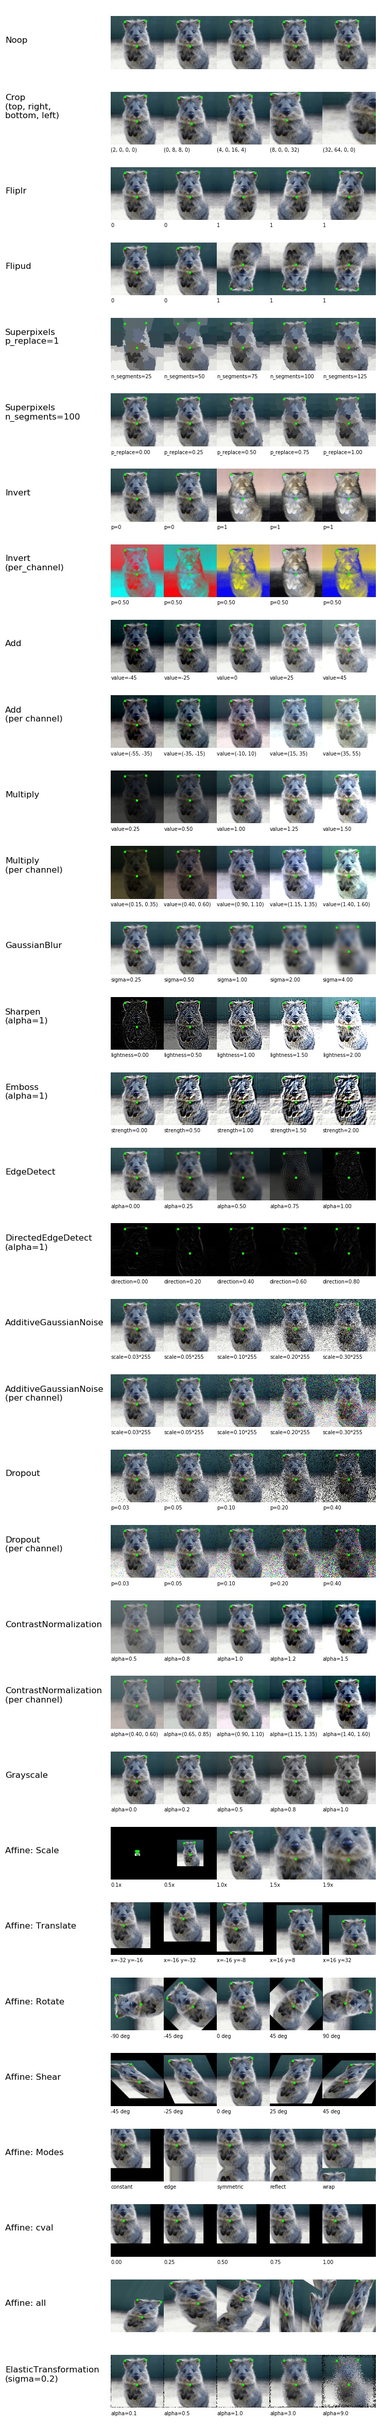
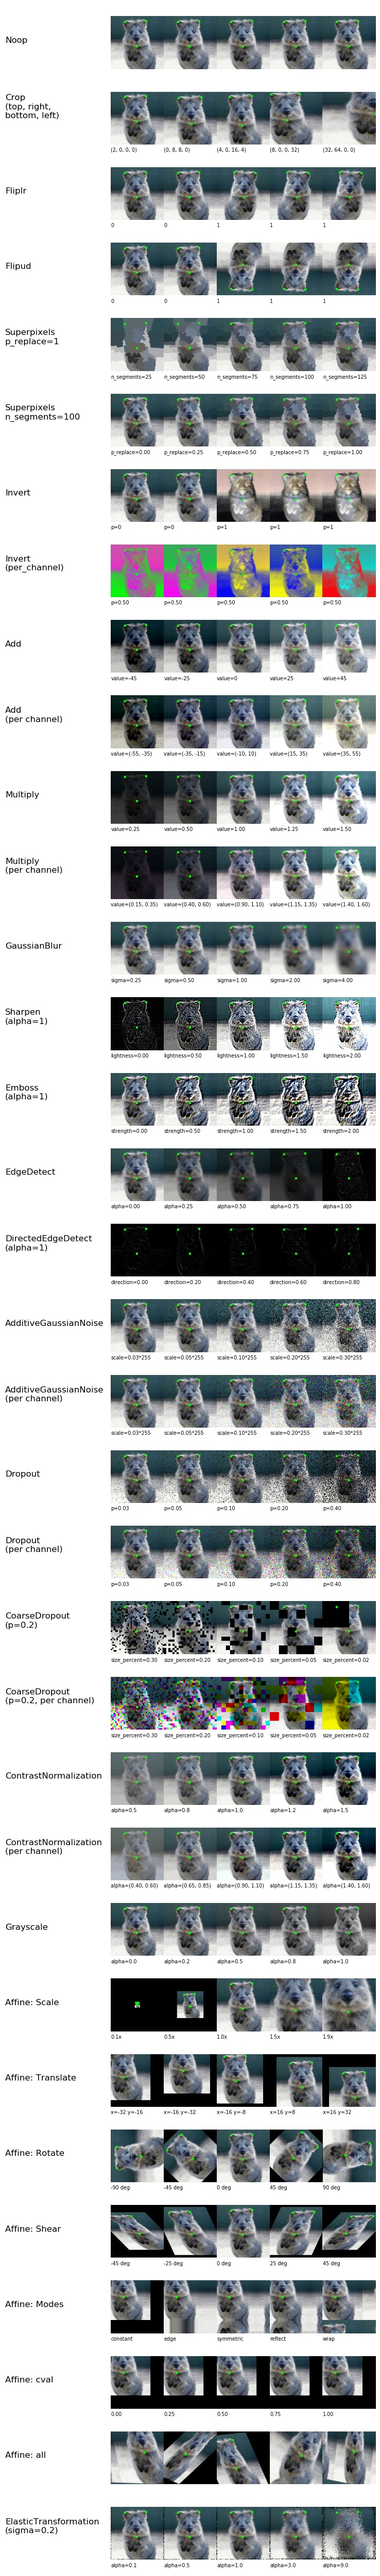
Add CoarseDropout

diff --git a/imgaug/augmenters.py b/imgaug/augmenters.py
@@ -1,6 +1,6 @@
 from __future__ import print_function, division, absolute_import
 from . import imgaug as ia
-from .parameters import StochasticParameter, Deterministic, Binomial, Choice, DiscreteUniform, Normal, Uniform
+from .parameters import StochasticParameter, Deterministic, Binomial, Choice, DiscreteUniform, Normal, Uniform, FromLowerResolution
 from abc import ABCMeta, abstractmethod
 import random
 import numpy as np
@@ -3477,6 +3477,130 @@ def Dropout(p=0, per_channel=False, name=None, deterministic=False,
         raise Exception("Expected p to be float or int or StochasticParameter, got %s." % (type(p),))
     return MultiplyElementwise(p2, per_channel=per_channel, name=name, deterministic=deterministic, random_state=random_state)
 
+def CoarseDropout(p=0, size_px=None, size_percent=None,
+                  per_channel=False, min_size=4, name=None, deterministic=False,
+                  random_state=None):
+    """Create an augmenter that sets areas of the image to zero.
+
+    In contrast to Dropout, these areas can have larger sizes.
+    (E.g. you might end up with three large black rectangles in an image.)
+    Note that the current implementation leads to correlated sizes,
+    so when there is one large area that is dropped, there is a high likelihood
+    that all other dropped areas are also large.
+
+    This method is implemented by generating the dropout mask at a
+    lower resolution (than the image has) and then upsampling the mask
+    before dropping the pixels.
+
+    Examples:
+        aug = iaa.Dropout(0.02, size_percent=0.5)
+    drops 2 percent of all pixels on an lower-resolution image that has
+    50 percent of the original image's size, leading to dropped areas that
+    have roughly 2x2 pixels size.
+
+    Examples:
+        aug = iaa.Dropout((0.0, 0.05), size_percent=(0.05, 0.5))
+    generates a dropout mask at 5 to 50 percent of image's size. In that mask,
+    0 to 5 percent of all pixels are dropped (random per image).
+
+    Examples:
+        aug = iaa.Dropout((0.0, 0.05), size_px=(2, 16))
+    same as previous example, but the lower resolution image has 2 to 16 pixels
+    size.
+
+    Examples:
+        aug = iaa.Dropout(0.02, size_percent=0.5, per_channel=True)
+    drops 2 percent of all pixels at 50 percent resolution (2x2 sizes)
+    in a channel-wise fashion, i.e. it is unlikely
+    for any pixel to have all channels set to zero (black pixels).
+
+    Examples:
+        aug = iaa.Dropout(0.02, size_percent=0.5, per_channel=0.5)
+    same as previous example, but the per_channel feature is only active
+    for 50 percent of all images.
+
+    Parameters
+    ----------
+    p : float or tuple of two floats or StochasticParameter, optional(default=0)
+        The probability of any pixel being dropped (i.e. set to zero).
+        If a float, then that value will be used for all pixels. A value of 1.0
+          would mean, that all pixels will be dropped. A value of 0.0 would
+          lead to no pixels being dropped.
+        If a tuple (a, b), then a value p will be sampled from the
+          range a <= p <= b per image and be used as the pixel's dropout
+          probability.
+        If a StochasticParameter, then this parameter will be used to determine
+          per pixel whether it should be dropped (sampled value of 0)
+          or shouldn't (sampled value of 1).
+
+    size_px : int or tuple of two ints or StochasticParameter, optional(default=None)
+        The size of the lower resolution image from which to sample the dropout
+        mask.
+        If an integer, then that size will be used for both height and width.
+          E.g. a value of 3 would lead to a 3x3 mask, which is then upsampled
+          to HxW, where H is the image size and W the image width.
+        If a tuple (a, b), then two values M, N will be sampled from the range
+          [a..b] and the mask will be generated at size MxN, then upsampled
+          to HxW.
+        If a StochasticParameter, then this parameter will be used to determine
+          the sizes. It is expected to be discrete.
+
+    size_percent : float or tuple of two floats or StochasticParameter, optional(default=None)
+        If a float, then that value will be used as the percentage of the
+          height and width (relative to the original size). E.g. for value p,
+          the mask will be sampled from (p*H)x(p*W) and later upsampled to
+          HxW.
+        If a tuple (a, b), then two values m, n will be sampled from the
+          interval (a, b) and used as the percentages, i.e the mask size
+          will be (m*H)x(n*W).
+        If a StochasticParameter, then this parameter will be used to sample
+          the percentage values. It is expected to be continuous.
+
+    per_channel : bool, optional(default=False)
+        Whether to use the same value (is dropped / is not dropped)
+        for all channels of a pixel (False) or to sample a new value for each
+        channel (True).
+        If this value is a float p, then for p percent of all images
+        per_channel will be treated as True, otherwise as False.
+
+    min_size : int, optional(default=4)
+        Minimum size of the low resolution mask, both width and height. If
+        size_percent or size_px leads to a lower value than this, min_size will
+        be used instead. This should never have a value of less than 2,
+        otherwise one may end up with a 1x1 low resolution mask, leading easily
+        to the whole image being dropped.
+
+    name : string, optional(default=None)
+        See Augmenter.__init__()
+
+    deterministic : bool, optional(default=False)
+        See Augmenter.__init__()
+
+    random_state : int or np.random.RandomState or None, optional(default=None)
+        See Augmenter.__init__()
+    """
+    if ia.is_single_number(p):
+        p2 = Binomial(1 - p)
+    elif ia.is_iterable(p):
+        assert len(p) == 2
+        assert p[0] < p[1]
+        assert 0 <= p[0] <= 1.0
+        assert 0 <= p[1] <= 1.0
+        p2 = Binomial(Uniform(1 - p[1], 1 - p[0]))
+    elif isinstance(p, StochasticParameter):
+        p2 = p
+    else:
+        raise Exception("Expected p to be float or int or StochasticParameter, got %s." % (type(p),))
+
+    if size_px is not None:
+        p3 = FromLowerResolution(other_param=p2, size_px=size_px, min_size=min_size)
+    elif size_percent is not None:
+        p3 = FromLowerResolution(other_param=p2, size_percent=size_percent, min_size=min_size)
+    else:
+        raise Exception("Either size_px or size_percent must be set.")
+
+    return MultiplyElementwise(p3, per_channel=per_channel, name=name, deterministic=deterministic, random_state=random_state)
+
 # TODO tests
 class Invert(Augmenter):
     """Augmenter that inverts all values in images.
@@ -3491,8 +3615,6 @@ class Invert(Augmenter):
     def __init__(self, p=0, per_channel=False, min_value=0, max_value=255, name=None,
                  deterministic=False, random_state=None):
         """Create a new Invert instance.
-
-
 
         Parameters
         ----------

diff --git a/generate_example_images.py b/generate_example_images.py
@@ -18,37 +18,40 @@ def main():
 def draw_single_sequential_images():
     image = misc.imresize(ndimage.imread("quokka.jpg")[0:643, 0:643], (128, 128))
 
-    st = lambda aug: iaa.Sometimes(0.3, aug)
-
+    rarely = lambda aug: iaa.Sometimes(0.1, aug)
+    sometimes = lambda aug: iaa.Sometimes(0.25, aug)
+    often = lambda aug: iaa.Sometimes(0.5, aug)
     seq = iaa.Sequential([
-            iaa.Fliplr(0.5),
-            iaa.Flipud(0.5),
-            st(iaa.Superpixels(p_replace=(0, 1.0), n_segments=(20, 200))),
-            st(iaa.Crop(percent=(0, 0.1))),
-            st(iaa.GaussianBlur((0, 3.0))),
-            st(iaa.Sharpen(alpha=(0, 1.0), lightness=(0.75, 1.5))),
-            st(iaa.Emboss(alpha=(0, 1.0), strength=(0, 2.0))),
-            st(iaa.Sometimes(0.5,
+            iaa.Fliplr(0.5), # horizontally flip 50% of all images
+            iaa.Flipud(0.5), # vertically flip 50% of all images
+            rarely(iaa.Superpixels(p_replace=(0, 1.0), n_segments=(20, 200))), # convert images into their superpixel representation
+            often(iaa.Crop(percent=(0, 0.1))), # crop images by 0-10% of their height/width
+            sometimes(iaa.GaussianBlur((0, 3.0))), # blur images with a sigma between 0 and 3.0
+            sometimes(iaa.Sharpen(alpha=(0, 1.0), lightness=(0.75, 1.5))), # sharpen images
+            sometimes(iaa.Emboss(alpha=(0, 1.0), strength=(0, 2.0))), # emboss images
+            # search either for all edges or for directed edges
+            rarely(iaa.Sometimes(0.5,
                 iaa.EdgeDetect(alpha=(0, 0.7)),
                 iaa.DirectedEdgeDetect(alpha=(0, 0.7), direction=(0.0, 1.0)),
             )),
-            st(iaa.AdditiveGaussianNoise(loc=0, scale=(0.0, 0.05*255), per_channel=0.5)),
-            st(iaa.Dropout((0.0, 0.1), per_channel=0.5)),
-            st(iaa.Invert(0.25, per_channel=True)),
-            st(iaa.Add((-10, 10), per_channel=0.5)),
-            st(iaa.Multiply((0.5, 1.5), per_channel=0.5)),
-            st(iaa.ContrastNormalization((0.5, 2.0), per_channel=0.5)),
-            st(iaa.Grayscale(alpha=(0.0, 1.0), name="Grayscale")),
-            st(iaa.Affine(
-                scale={"x": (0.8, 1.2), "y": (0.8, 1.2)},
-                translate_px={"x": (-16, 16), "y": (-16, 16)},
-                rotate=(-45, 45),
-                shear=(-16, 16),
-                order=[0, 1],
-                cval=(0, 255),
-                mode=ia.ALL
+            often(iaa.AdditiveGaussianNoise(loc=0, scale=(0.0, 0.05*255), per_channel=0.5)), # add gaussian noise to images
+            often(iaa.Dropout((0.0, 0.1), per_channel=0.5)), # randomly remove up to 10% of the pixels
+            often(iaa.CoarseDropout((0.0, 0.05), size_percent=(0.02, 0.25), per_channel=True)),
+            rarely(iaa.Invert(0.25, per_channel=True)), # invert color channels
+            often(iaa.Add((-10, 10), per_channel=0.5)), # change brightness of images (by -10 to 10 of original value)
+            often(iaa.Multiply((0.5, 1.5), per_channel=0.5)), # change brightness of images (50-150% of original value)
+            often(iaa.ContrastNormalization((0.5, 2.0), per_channel=0.5)), # improve or worsen the contrast
+            sometimes(iaa.Grayscale(alpha=(0.0, 1.0))),
+            often(iaa.Affine(
+                scale={"x": (0.8, 1.2), "y": (0.8, 1.2)}, # scale images to 80-120% of their size, individually per axis
+                translate_percent={"x": (-0.2, 0.2), "y": (-0.2, 0.2)}, # translate by -20 to +20 percent (per axis)
+                rotate=(-45, 45), # rotate by -45 to +45 degrees
+                shear=(-16, 16), # shear by -16 to +16 degrees
+                order=[0, 1], # use nearest neighbour or bilinear interpolation (fast)
+                cval=(0, 255), # if mode is constant, use a cval between 0 and 255
+                mode=ia.ALL # use any of scikit-image's warping modes (see 2nd image from the top for examples)
             )),
-            st(iaa.ElasticTransformation(alpha=(0.5, 3.5), sigma=0.25))
+            rarely(iaa.ElasticTransformation(alpha=(0.5, 3.5), sigma=0.25)) # move pixels locally around (with random strengths)
         ],
         random_order=True
     )
@@ -90,6 +93,8 @@ def draw_per_augmenter_images():
         ("AdditiveGaussianNoise\n(per channel)", [("scale=%.2f*255" % (scale,), iaa.AdditiveGaussianNoise(scale=scale * 255, per_channel=True)) for scale in [0.025, 0.05, 0.1, 0.2, 0.3]]),
         ("Dropout", [("p=%.2f" % (p,), iaa.Dropout(p=p)) for p in [0.025, 0.05, 0.1, 0.2, 0.4]]),
         ("Dropout\n(per channel)", [("p=%.2f" % (p,), iaa.Dropout(p=p, per_channel=True)) for p in [0.025, 0.05, 0.1, 0.2, 0.4]]),
+        ("CoarseDropout\n(p=0.2)", [("size_percent=%.2f" % (size_percent,), iaa.CoarseDropout(p=0.2, size_percent=size_percent, min_size=2)) for size_percent in [0.3, 0.2, 0.1, 0.05, 0.02]]),
+        ("CoarseDropout\n(p=0.2, per channel)", [("size_percent=%.2f" % (size_percent,), iaa.CoarseDropout(p=0.2, size_percent=size_percent, per_channel=True, min_size=2)) for size_percent in [0.3, 0.2, 0.1, 0.05, 0.02]]),
         ("ContrastNormalization", [("alpha=%.1f" % (alpha,), iaa.ContrastNormalization(alpha=alpha)) for alpha in [0.5, 0.75, 1.0, 1.25, 1.50]]),
         ("ContrastNormalization\n(per channel)", [("alpha=(%.2f, %.2f)" % (alphas[0], alphas[1],), iaa.ContrastNormalization(alpha=alphas, per_channel=True)) for alphas in [(0.4, 0.6), (0.65, 0.85), (0.9, 1.1), (1.15, 1.35), (1.4, 1.6)]]),
         ("Grayscale", [("alpha=%.1f" % (alpha,), iaa.Grayscale(alpha=alpha)) for alpha in [0.0, 0.25, 0.5, 0.75, 1.0]]),

diff --git a/README.md b/README.md
@@ -71,7 +71,9 @@ images = np.random.randint(0, 255, (16, 128, 128, 3), dtype=np.uint8)
 
 # Sometimes(0.5, ...) applies the given augmenter in 50% of all cases,
 # e.g. Sometimes(0.5, GaussianBlur(0.3)) would blur roughly every second image.
-st = lambda aug: iaa.Sometimes(0.3, aug)
+rarely = lambda aug: iaa.Sometimes(0.1, aug)
+sometimes = lambda aug: iaa.Sometimes(0.25, aug)
+often = lambda aug: iaa.Sometimes(0.5, aug)
 
 # Define our sequence of augmentation steps that will be applied to every image
 # All augmenters with per_channel=0.5 will sample one value _per image_
@@ -80,34 +82,36 @@ st = lambda aug: iaa.Sometimes(0.3, aug)
 seq = iaa.Sequential([
         iaa.Fliplr(0.5), # horizontally flip 50% of all images
         iaa.Flipud(0.5), # vertically flip 50% of all images
-        st(iaa.Superpixels(p_replace=(0, 1.0), n_segments=(20, 200))), # convert images into their superpixel representation
-        st(iaa.Crop(percent=(0, 0.1))), # crop images by 0-10% of their height/width
-        st(iaa.GaussianBlur((0, 3.0))), # blur images with a sigma between 0 and 3.0
-        st(iaa.Sharpen(alpha=(0, 1.0), lightness=(0.75, 1.5))), # sharpen images
-        st(iaa.Emboss(alpha=(0, 1.0), strength=(0, 2.0))), # emboss images
+        rarely(iaa.Superpixels(p_replace=(0, 1.0), n_segments=(20, 200))), # convert images into their superpixel representation
+        often(iaa.Crop(percent=(0, 0.1))), # crop images by 0-10% of their height/width
+        sometimes(iaa.GaussianBlur((0, 3.0))), # blur images with a sigma between 0 and 3.0
+        sometimes(iaa.Sharpen(alpha=(0, 1.0), lightness=(0.75, 1.5))), # sharpen images
+        sometimes(iaa.Emboss(alpha=(0, 1.0), strength=(0, 2.0))), # emboss images
         # search either for all edges or for directed edges
-        st(iaa.Sometimes(0.5,
+        rarely(iaa.Sometimes(0.5,
             iaa.EdgeDetect(alpha=(0, 0.7)),
             iaa.DirectedEdgeDetect(alpha=(0, 0.7), direction=(0.0, 1.0)),
         )),
-        st(iaa.AdditiveGaussianNoise(loc=0, scale=(0.0, 0.2), per_channel=0.5)), # add gaussian noise to images
-        st(iaa.Dropout((0.0, 0.1), per_channel=0.5)), # randomly remove up to 10% of the pixels
-        st(iaa.Invert(0.25, per_channel=True)), # invert color channels
-        st(iaa.Add((-10, 10), per_channel=0.5)), # change brightness of images (by -10 to 10 of original value)
-        st(iaa.Multiply((0.5, 1.5), per_channel=0.5)), # change brightness of images (50-150% of original value)
-        st(iaa.ContrastNormalization((0.5, 2.0), per_channel=0.5)), # improve or worsen the contrast
-        st(iaa.Affine(
+        often(iaa.AdditiveGaussianNoise(loc=0, scale=(0.0, 0.05*255), per_channel=0.5)), # add gaussian noise to images
+        often(iaa.Dropout((0.0, 0.1), per_channel=0.5)), # randomly remove up to 10% of the pixels
+        often(iaa.CoarseDropout((0.0, 0.05), size_percent=(0.02, 0.25), per_channel=True)),
+        rarely(iaa.Invert(0.25, per_channel=True)), # invert color channels
+        often(iaa.Add((-10, 10), per_channel=0.5)), # change brightness of images (by -10 to 10 of original value)
+        often(iaa.Multiply((0.5, 1.5), per_channel=0.5)), # change brightness of images (50-150% of original value)
+        often(iaa.ContrastNormalization((0.5, 2.0), per_channel=0.5)), # improve or worsen the contrast
+        sometimes(iaa.Grayscale(alpha=(0.0, 1.0))),
+        often(iaa.Affine(
             scale={"x": (0.8, 1.2), "y": (0.8, 1.2)}, # scale images to 80-120% of their size, individually per axis
-            translate_px={"x": (-16, 16), "y": (-16, 16)}, # translate by -16 to +16 pixels (per axis)
+            translate_percent={"x": (-0.2, 0.2), "y": (-0.2, 0.2)}, # translate by -20 to +20 percent (per axis)
             rotate=(-45, 45), # rotate by -45 to +45 degrees
             shear=(-16, 16), # shear by -16 to +16 degrees
-            order=ia.ALL, # use any of scikit-image's interpolation methods
+            order=[0, 1], # use nearest neighbour or bilinear interpolation (fast)
             cval=(0, 255), # if mode is constant, use a cval between 0 and 255
             mode=ia.ALL # use any of scikit-image's warping modes (see 2nd image from the top for examples)
         )),
-        st(iaa.ElasticTransformation(alpha=(0.5, 3.5), sigma=0.25)) # apply elastic transformations with random strengths
+        rarely(iaa.ElasticTransformation(alpha=(0.5, 3.5), sigma=0.25)) # move pixels locally around (with random strengths)
     ],
-    random_order=True # do all of the above in random order
+    random_order=True
 )
 
 images_aug = seq.augment_images(images)
